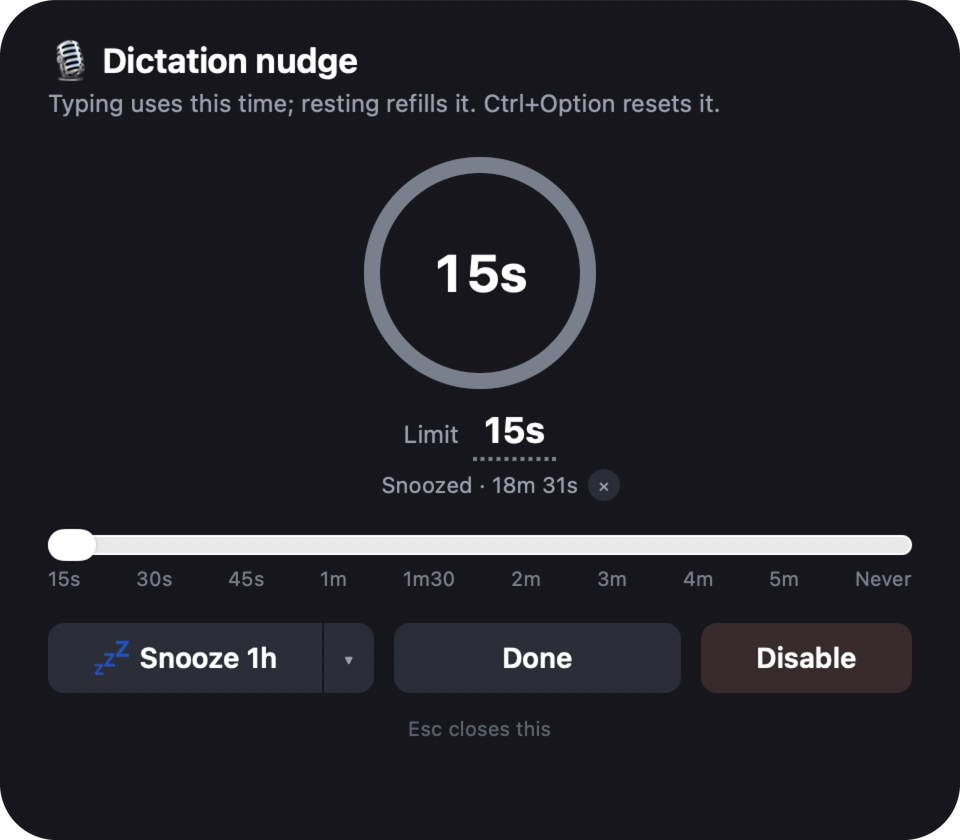
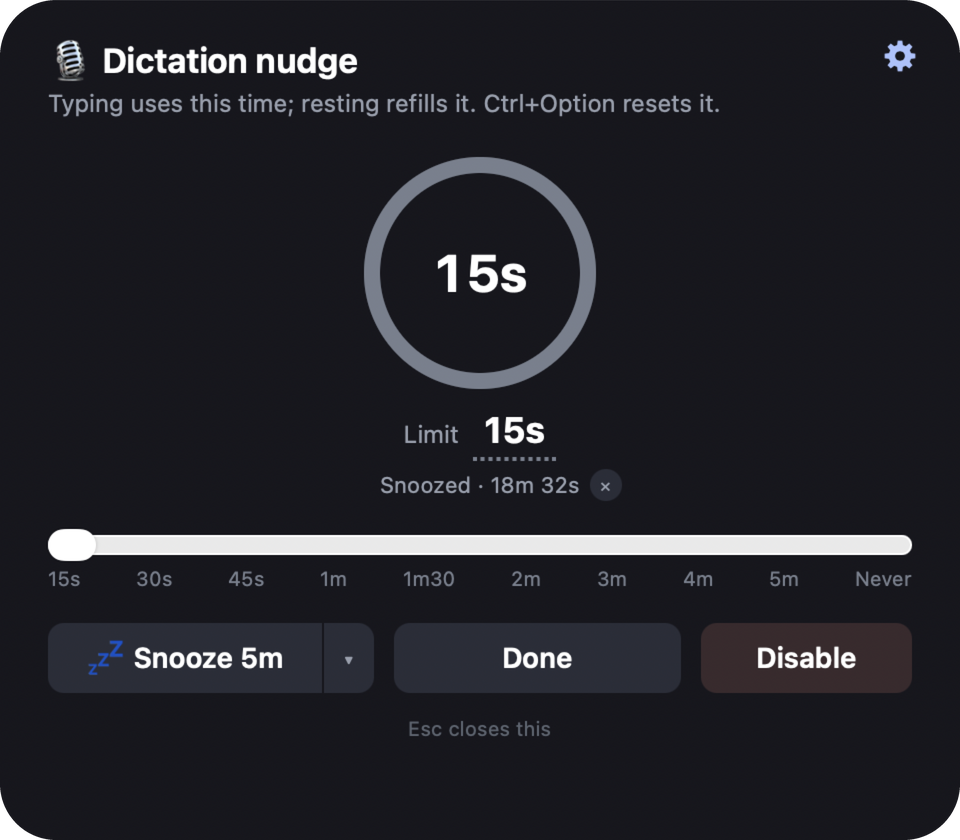
Retake the three card screenshots with the settings gear; show snoozeMath in the status example
The nudge, settings, and snoozed screenshots predated the gear in the
card's corner. Retaken from the real card on main, same size and mask.
The dictationNudgeStatus() example in the README now includes the
snoozeMath field the function prints.

Suite: 77 passed.

Changed region(s): [[0.0938, 0.7429, 0.3125, 0.8048], [0.4062, 0.5571, 0.5938, 0.5881], [0.9062, 0.031, 0.9688, 0.0929]]

diff --git a/README.md b/README.md
@@ -9,7 +9,7 @@ A [Hammerspoon](https://www.hammerspoon.org/) module for macOS that notices when
 Typing spends a small, refillable allowance. When it runs out you get a sound, a banner, and a card with a one-click button that starts your dictation app. Keep typing through that and the keyboard is blocked for a few seconds. Resting refills the allowance at the rate typing spends it, so it takes sustained typing to run it out.
 
 <p align="center">
-  <img src="docs/screenshots/nudge.png" width="440" alt="The nudge card: Dictate this instead? with a Start Wispr Flow button, an empty countdown ring, and Snooze, Keep typing, and Disable buttons">
+  <img src="docs/screenshots/nudge.png" width="440" alt="The nudge card: Dictate this instead? with a Start Wispr Flow button, an empty countdown ring, Snooze, Keep typing, and Disable buttons, and a settings gear in the corner">
 </p>
 
 It is one Lua file with no dependencies beyond Hammerspoon, and a plain-Lua test suite that runs without macOS.
@@ -100,7 +100,7 @@ You need macOS and [Hammerspoon](https://www.hammerspoon.org/).
 
 ```lua
 dictationNudgeStatus()
--- tap=true threshold=15s used=0.4s lastCountedKeyAge=1.2s lockdown=off snooze=off card=closed disabled=false
+-- tap=true threshold=15s used=0.4s lastCountedKeyAge=1.2s lockdown=off snooze=off card=closed disabled=false snoozeMath=off
 ```
 
 `lastCountedKeyAge` is the age of the last key that counted as typing since the meter was last reset (a reload, a snooze, a limit change, or the reset chord all reset it). If it still says `never seen` after you typed plain letters, the tap is probably not receiving your keys. A missing Input Monitoring grant is one cause: grant it, then quit and reopen Hammerspoon.
